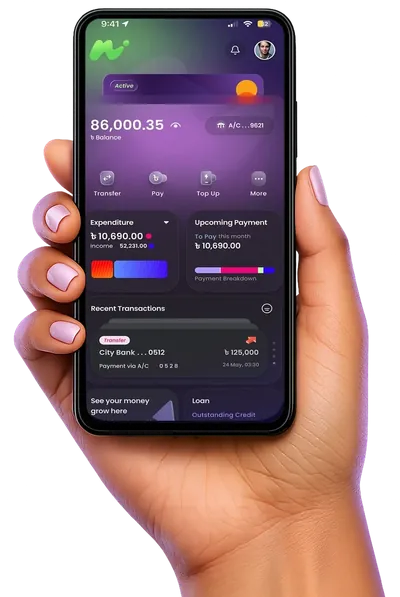
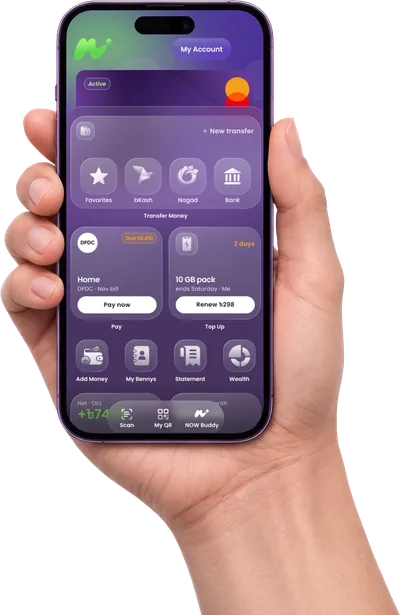
Hero: new app-in-hand photo
Swap in the new phone-in-hand shot (trimmed, 720/560/400 widths), update
the image height, and move the wrist pivot to the new arm position.

diff --git a/css/style.css b/css/style.css
@@ -247,12 +247,12 @@ html[lang="bn"] .hero h1 { font-size: clamp(2.6rem, 6vw, 4.7rem); }
   animation: cardFloat 7s ease-in-out infinite; }
 .hero-card--purple { left: 6%; top: 20%; --r: -16deg; }
 .hero-card--orange { right: 4%; top: 30%; --r: 13deg; animation-delay: -3.5s; }
-/* The arm is cut off at the hero's bottom edge (it spans ~45–96% of the image width there). The phone leans by
-   rotating about the middle of that cut, like a wrist (origin 70% 100%), and sits 12px below the edge so the
+/* The arm is cut off at the hero's bottom edge (it spans ~50–100% of the image width there). The phone leans by
+   rotating about the middle of that cut, like a wrist (origin 75% 100%), and sits 12px below the edge so the
    small corner lift plus the ±4px vertical parallax never bring the cut into view. Centring lives in `translate`,
    not `transform`, because `transform` applies after `rotate` and would move the pivot off the arm. */
 .hero-phone { translate: calc(-50% + var(--px, 0px) + var(--kx, 0%)) var(--py, 0px);
-  rotate: var(--kr, 0deg); transform-origin: 70% 100%;
+  rotate: var(--kr, 0deg); transform-origin: 75% 100%;
   transition: translate .6s cubic-bezier(.2, .7, .3, 1), rotate .8s cubic-bezier(.34, 1.4, .64, 1); }
 .hero-visual[data-peek="purple"] .hero-card--purple { --kx: -20%; --ky: -6%; --kr: -7deg; --ks: 1.05; }
 .hero-visual[data-peek="purple"] .hero-card--orange { --kx: -7%; --ks: .96; }

diff --git a/index.html b/index.html
@@ -252,7 +252,7 @@
         <div class="hero-visual" aria-hidden="true">
           <img class="hero-card hero-card--purple" src="assets/card-purple.webp" alt="" width="450" height="714" data-depth="22" data-peek="purple">
           <img class="hero-card hero-card--orange" src="assets/card-orange.webp" alt="" width="450" height="714" data-depth="-16" data-peek="orange">
-          <img class="hero-phone" data-depth="6" src="assets/app-in-hand.webp" srcset="assets/app-in-hand-400.webp 400w, assets/app-in-hand-560.webp 560w, assets/app-in-hand.webp 720w" sizes="(max-width: 600px) 280px, (max-width: 900px) 310px, clamp(340px, 30vw, 440px)" fetchpriority="high" alt="" width="720" height="1075">
+          <img class="hero-phone" data-depth="6" src="assets/app-in-hand.webp" srcset="assets/app-in-hand-400.webp 400w, assets/app-in-hand-560.webp 560w, assets/app-in-hand.webp 720w" sizes="(max-width: 600px) 280px, (max-width: 900px) 310px, clamp(340px, 30vw, 440px)" fetchpriority="high" alt="" width="720" height="1107">
         </div>
       </div>
     </section>
